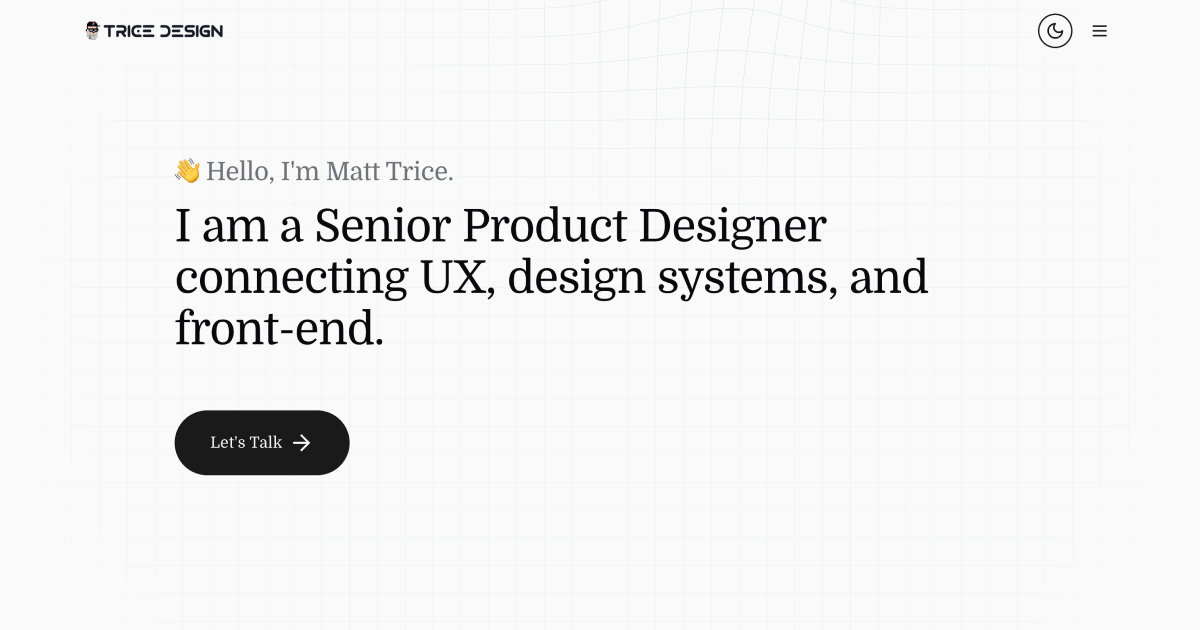
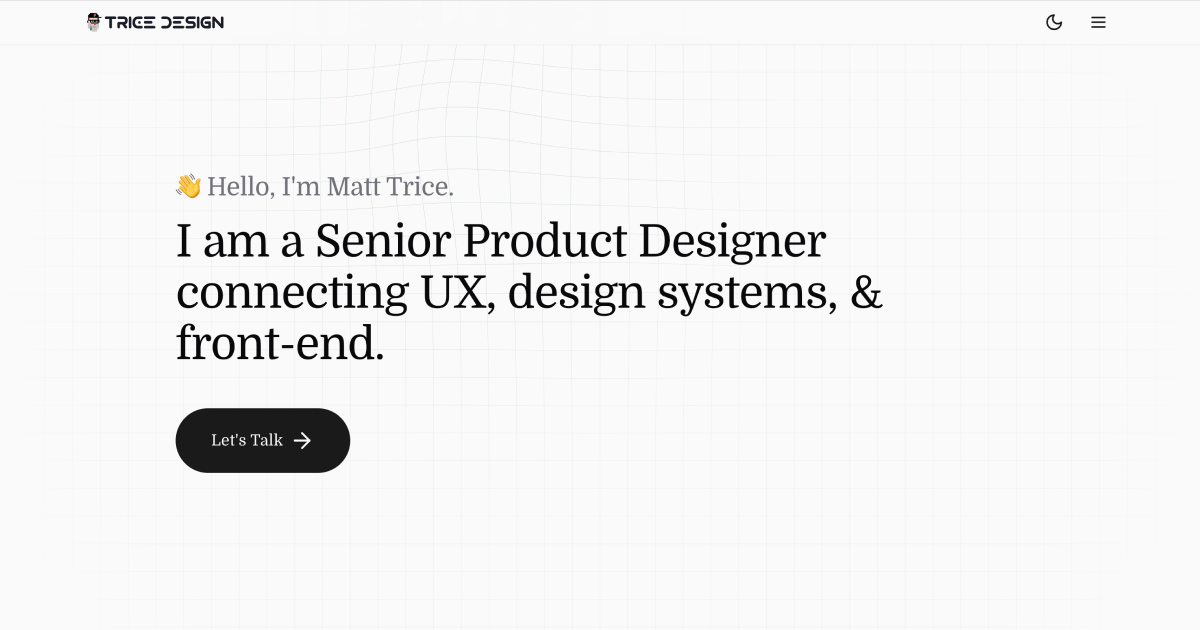
fix: update OG and Twitter meta tags for social sharing
- Update OG image path to use absolute URL
- Add Twitter card meta tags with @tricedesign handle
- Add image dimensions for better social preview
- Convert relative image paths to absolute URLs

diff --git a/src/data/demos/design-system.ts b/src/data/demos/design-system.ts
@@ -49,7 +49,7 @@ export const designSystemDemo = {
               type: 'figma',
               title: 'DS Demo - Theme',
               description: 'Demo design system built with shadcn/ui and TailwindCSS. Components export design tokens as JSON variables, integrated via Style Dictionary.',
-              url: 'https://www.figma.com/community/file/1490098810930924038/ds-demo-theme-figma-shadcn-ui-tailwind',
+              url: 'https://www.figma.com/community/file/1490096029662140932/ds-demo-theme-figma-shadcn-ui-tailwind',
               lastUpdated: '2024-04-02T22:24:58Z',
               image: '/images/design-system/demo-cover.png'
               // TO-DO: add Figma API to get cover photo
@@ -121,7 +121,7 @@ export const designSystemDemo = {
           content: 'In the Theme file, update the <strong>Primitive</strong> variable set with your custom light and dark theme colors.'
         },
         {
-          content: '🚨 Tip: Be sure your Figma variables have scopes assigned; otherwise, the export process won\'t work correctly.',
+          content: '⚠ Important: Be sure your Figma variables have scopes assigned; otherwise, the export process won\'t work correctly.',
           variant: 'warning',
           alignContent: 'center',
           image: {
@@ -194,10 +194,9 @@ export const designSystemDemo = {
           resources: [
             {
               type: 'github',
-              title: 'ds-demo5',
+              title: 'figma-shadcn-demo',
               description: 'A React + TypeScript project built on shadcn/ui and TailwindCSS that streamlines Figma token exports through automatic Style Dictionary conversion.',
-              url: 'https://github.com/xraystyle1980/ds-demo5'
-              // lastUpdated: '2024-04-02T22:24:58Z'
+              url: 'https://github.com/xraystyle1980/figma-shadcn-demo'
               // TO-DO: add GH API to get last updated date
             }
           ]

diff --git a/index.html b/index.html
@@ -19,9 +19,20 @@
     <!-- Open Graph / Facebook -->
     <meta property="og:type" content="website">
     <meta property="og:url" content="https://trice.design/">
-      <meta property="og:title" content="Matt Trice Design | Senior Product Designer">
-      <meta property="og:description" content="👋 Hello, I'm Matt Trice. I am a Senior Product Designer connecting UX, design systems, and front-end.">
-    <meta property="og:image" content="/favicon/web-app-manifest-512x512.png">
+    <meta property="og:title" content="Matt Trice Design | Senior Product Designer">
+    <meta property="og:description" content="👋 Hello, I'm Matt Trice. I am a Senior Product Designer connecting UX, design systems, and front-end.">
+    <meta property="og:image" content="https://trice.design/OG-image.png">
+    <meta property="og:image:width" content="1200">
+    <meta property="og:image:height" content="630">
+
+    <!-- Twitter -->
+    <meta name="twitter:card" content="summary_large_image">
+    <meta name="twitter:site" content="@tricedesign">
+    <meta name="twitter:creator" content="@tricedesign">
+    <meta name="twitter:url" content="https://trice.design/">
+    <meta name="twitter:title" content="Matt Trice Design | Senior Product Designer">
+    <meta name="twitter:description" content="👋 Hello, I'm Matt Trice. I am a Senior Product Designer connecting UX, design systems, and front-end.">
+    <meta name="twitter:image" content="https://trice.design/OG-image.png">
     
     <script>
       let isDark;

diff --git a/src/components/AnimatedHeroText.tsx b/src/components/AnimatedHeroText.tsx
@@ -86,7 +86,7 @@ export function AnimatedHeroText({ greeting, title }: AnimatedHeroTextProps) {
   const titleWords = title.split(' ');
 
   return (
-    <div className="flex flex-col items-start max-w-screen-xl">
+    <div className="flex flex-col items-start">
       {/* Hidden SEO-friendly version */}
       <h1 className="sr-only">
         {greeting} {title}
@@ -96,7 +96,7 @@ export function AnimatedHeroText({ greeting, title }: AnimatedHeroTextProps) {
       <div 
         role="presentation"
         aria-hidden="true"
-        className="flex flex-col items-start max-w-screen-xl"
+        className="flex flex-col items-start"
       >
         <span 
           ref={greetingRef}

diff --git a/src/pages/HomePage.tsx b/src/pages/HomePage.tsx
@@ -17,7 +17,7 @@ export function HomePage() {
           <section className='flex flex-col justify-center h-screen gap-8 md:gap-12'>
             <AnimatedHeroText
               greeting="👋 Hello, I'm Matt Trice."
-              title="I am a Senior Product Designer connecting UX, design systems, and front-end."
+              title="I am a Senior Product Designer connecting UX, design systems, & front-end."
             />
             <a 
               href="https://calendly.com/matt-trice/30min" 
